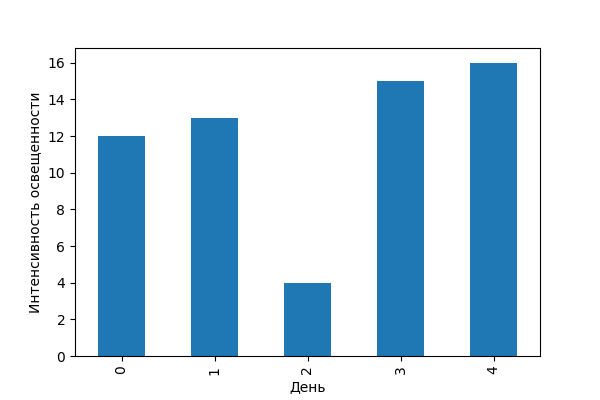
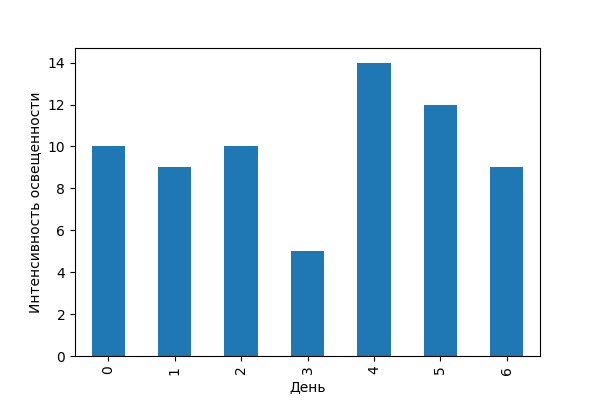
теперь есть какой-то обмен данными но пока рандомный

diff --git a/web/text.js b/web/text.js
@@ -20,6 +20,7 @@ async function PopUpHide(){
             create_device();
         }
         else{
+          alert('пососи')  // НЕ ЗАБУДЬ УБРАТЬ
           ctr--;
         }
     }
@@ -79,11 +80,36 @@ function create_device(){//походу запускать эту функцию
 
 
 function choose_devace(obj){//эта функция для отображения информации о дивайсе
+  refresh();
   var a = document.getElementById(obj.id+'t');
   var b = document.getElementById('l2');
 
   var textA = a.innerHTML;
   b.innerHTML = textA;
+
+  var plot1 = document.getElementById('plot1');
+  var plot2 = document.getElementById('plot2');
+  var plot3 = document.getElementById('plot3');
+
+  if(ctr != -1){
+    plot1.src = "static/plot2.png";
+    plot2.src = "static/plot1.png";
+    plot3.src = "static/plot2.png";
+  }
+}
+
+async function refresh(){
+
+    var plot1 = document.getElementById('plot1');
+    var plot2 = document.getElementById('plot2');
+    var plot3 = document.getElementById('plot3');
+
+    if(ctr != -1){
+      var a = await eel.get_data()();
+      plot1.src = "static/plot2.png";
+      plot2.src = "static/plot1.png";
+      plot3.src = "static/plot2.png";
+    }
 }
 
 PopUpHide();

diff --git a/web/mian.html b/web/mian.html
@@ -12,9 +12,10 @@
     <!-- <img src="static/plot.png" alt="Chart" > -->
     <!-- <button onclick="bb()"> asdasd </button> -->
     <div class="content">
-        <img class="plot" id='plot1' src="static/plot2.png"><br>
-        <img class="plot" src="static/plot1.png"><br>
-        <img class="plot" src="static/plot2.png">
+        <img class="plot" id='plot1' src="#"><br>
+        <img class="plot" id='plot2' src="#"><br>
+        <img class="plot" id='plot3' src="#">
+
     </div>
 
     <div class="bok" id="bok">
@@ -43,7 +44,7 @@
 
                 <td>
                   <div class='nb' id='2'>
-                    <button class="b_down"><img src="1ref.png"></button>
+                    <button class="b_down" onclick="refresh()"><img src="1ref.png"></button>
                   </div>
                 </td>
               </tr>

diff --git a/server.py b/server.py
@@ -2,11 +2,12 @@ import socket
 
 server = socket.socket(socket.AF_INET, socket.SOCK_STREAM)
 
-server.bind(("127.0.0.1", 1234))
+server.bind(("127.0.0.1", 1265))
 
 server.listen(2)
 user1, adres1 = server.accept()
 user2, adres2 = server.accept()
+
 file = open('nuber_data.txt', 'r')  # тут будет файл со всесеми номерами (потом он будет scv)
 line = file.read().split('\n')  # получаем все серийники (нужноподключить pndas)
 while True:
@@ -16,10 +17,11 @@ while True:
 
     if data_user1.decode('utf-8') == 'check':
         device_name = user1.recv(1024)
+
         if device_name.decode('utf-8') in line:   # тут будет нормальная проверка номера
-            user1.send('1'.encode('utf-8')) # возвращаем 1 если проверка прошла
+            user1.send('1'.encode('utf-8'))  # возвращаем 1 если проверка прошла
         else:
-            user1.send('0'.encode('utf-8')) # возвращаем 0 если проверка не прошла
+            user1.send('0'.encode('utf-8'))  # возвращаем 0 если проверка не прошла
             
     elif data_user1.decode('utf-8') == 'get':
         user2.send(data_user1)

diff --git a/main.py b/main.py
@@ -1,11 +1,12 @@
 import eel
 import socket
 import time
+import pandas as pd
+import matplotlib.pyplot as plt
 
 eel.init('web')
 clien = socket.socket(socket.AF_INET, socket.SOCK_STREAM)
-clien.connect(("127.0.0.1", 1234))
-
+clien.connect(("127.0.0.1", 1265))
 
 @eel.expose
 def call(device_name):
@@ -19,6 +20,27 @@ def call(device_name):
         return 1
     else:
         return 0
+
+@eel.expose
+def get_data():
+    clien.send('get'.encode('utf-8'))  # отправляем режим для получения данных
+    datafile = clien.recv(1024)
+
+    data1 = datafile.decode('utf-8').split('@') #типа среднее за каждый день недели
+    del data1[len(data1)-1]
+    data1 = list(map(int, data1))
+    #print(data1)
+
+    s = pd.Series(data1)
+    f1 = plt.figure(figsize=(6, 4))
+    s.plot(kind='bar', xlabel='День', ylabel='Интенсивность освещенности')
+    f1.savefig('web/static/plot1.png')
+
+    s = pd.Series(data1)
+    f2 = plt.figure(figsize=(6, 4))
+    s.plot(kind='pie', xlabel='День', ylabel='Интенсивность освещенности')
+    f2.savefig('web/static/plot2.png')
+    return 0
 
 
 eel.start('mian.html', size=(1200, 800))

diff --git a/client2.py b/client2.py
@@ -2,9 +2,15 @@ import socket
 from random import randint
 
 clien = socket.socket(socket.AF_INET, socket.SOCK_STREAM)
-clien.connect(("127.0.0.1", 1234))
-file = open('device_data.txt', 'r')
+clien.connect(("127.0.0.1", 1265))
+
 while True:
     data = clien.recv(1024)
     if data.decode('utf-8') == 'get':
-        clien.send(file)#тут должен высылаться файл (возможно csv)
+        l = ''
+        data2 = [randint(1, 20) for i in range(7)]
+        for i in range(7):
+            l += str(data2[i])+'@'
+        clien.send(l.encode('utf-8'))#тут должен высылаться файл (возможно csv)
+
+
